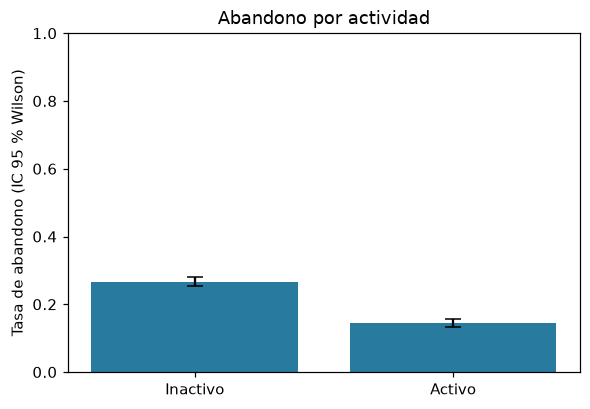
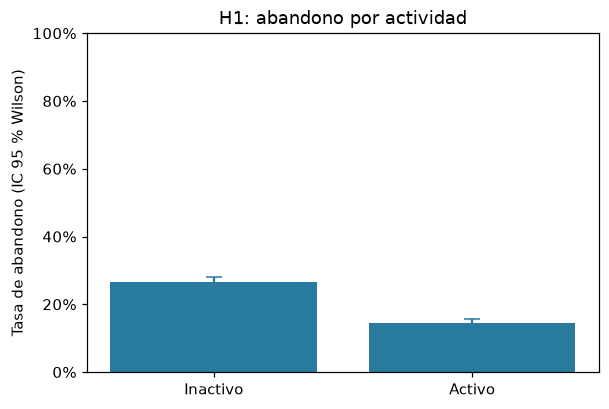
fix: figure readability (week 2 debt)

diff --git a/src/churn/plots.py b/src/churn/plots.py
@@ -11,12 +11,15 @@ matplotlib.use("Agg")
 
 import matplotlib.pyplot as plt
 import pandas as pd
+from matplotlib.ticker import FuncFormatter, PercentFormatter
 
 from churn.config import AGE_LABELS, PROJECT_ROOT, has_balance
 from churn.hypotheses import HYPOTHESES_FILE
 from churn.split import load_exploration
 
 FIGURES_DIR = PROJECT_ROOT / "reports" / "figures"
+COLOR = "#287a9e"
+THOUSANDS = FuncFormatter(lambda value, position: f"{value / 1000:g}k")
 
 
 def _save(fig, path: Path) -> Path:
@@ -35,8 +38,9 @@ def _rates_plot(rates, levels, labels, title, path: Path) -> Path:
         [rates[level]["rate"] - rates[level]["ic_low"] for level in levels],
         [rates[level]["ic_high"] - rates[level]["rate"] for level in levels],
     ]
-    ax.bar(labels, values, yerr=errors, capsize=5, color="#287a9e")
+    ax.bar(labels, values, yerr=errors, capsize=5, color=COLOR, error_kw={"ecolor": COLOR})
     ax.set(title=title, ylabel="Tasa de abandono (IC 95 % Wilson)", ylim=(0, 1))
+    ax.yaxis.set_major_formatter(PercentFormatter(xmax=1))
     return _save(fig, path)
 
 
@@ -48,53 +52,59 @@ def generate_figures(df: pd.DataFrame, results: list[dict], out_dir: Path) -> li
             indexed["H2"]["detalles"]["rates"],
             ("1", "2", "3-4"),
             ("1", "2", "3-4"),
-            "Abandono por número de productos (H2)",
+            "H2: abandono por número de productos",
             out_dir / "churn_products.png",
         ),
         _rates_plot(
             indexed["H4"]["detalles"]["rates"],
             AGE_LABELS,
             AGE_LABELS,
-            "Abandono por tramo de edad",
+            "H4: abandono por tramo de edad",
             out_dir / "churn_age.png",
         ),
     ]
     germany = indexed["H3"]["detalles"]
     estimates = [germany["or_crudo"], germany["or_ajustado"]]
-    fig, ax = plt.subplots(figsize=(6, 4))
+    fig, ax = plt.subplots(figsize=(6, 2.6))
     values = [estimate["estimate"] for estimate in estimates]
     errors = [
         [value - estimate["ic_low"] for value, estimate in zip(values, estimates, strict=True)],
         [estimate["ic_high"] - value for value, estimate in zip(values, estimates, strict=True)],
     ]
-    ax.errorbar(values, [0, 1], xerr=errors, fmt="o", capsize=5)
+    ax.errorbar(values, [0, 1], xerr=errors, fmt="o", capsize=5, color=COLOR)
     ax.axvline(1, color="gray", linestyle="--")
+    ax.axvline(1.5, color=COLOR, linestyle="--", label="umbral práctico")
+    ax.legend(loc="lower left")
     ax.set(
         yticks=[0, 1],
         yticklabels=["Crudo", "Ajustado por saldo"],
         xlabel="Odds ratio (IC 95 %)",
-        title="Alemania frente a Francia y España",
+        title="H3: Alemania frente a Francia y España",
+        ylim=(-0.35, 1.35),
     )
     paths.append(_save(fig, out_dir / "germany_or.png"))
 
     rates = indexed["H5"]["detalles"]["rates"]
-    fig, axes = plt.subplots(1, 2, figsize=(8, 4))
-    axes[0].bar(["Saldo cero", "Saldo positivo"], [rates["0"]["n"], rates["1"]["n"]])
+    fig, axes = plt.subplots(1, 2, figsize=(8, 4), constrained_layout=True)
+    fig.suptitle("H5: distribución del saldo")
+    axes[0].bar(["Saldo cero", "Saldo positivo"], [rates["0"]["n"], rates["1"]["n"]], color=COLOR)
     axes[0].set(title="Masa puntual en cero", ylabel="Clientes")
-    axes[1].hist(df.loc[has_balance(df["Balance"]) == 1, "Balance"], bins=40)
+    axes[1].hist(df.loc[has_balance(df["Balance"]) == 1, "Balance"], bins=40, color=COLOR)
     axes[1].set(title="Distribución del saldo positivo", xlabel="Balance", ylabel="Clientes")
+    axes[1].xaxis.set_major_formatter(THOUSANDS)
     paths.append(_save(fig, out_dir / "balance_distribution.png"))
 
     fig, ax = plt.subplots(figsize=(6, 4))
-    ax.hist(df["EstimatedSalary"], bins=40, color="#287a9e")
-    ax.set(title="Distribución de EstimatedSalary", xlabel="EstimatedSalary", ylabel="Clientes")
+    ax.hist(df["EstimatedSalary"], bins=40, color=COLOR)
+    ax.set(title="H6: distribución de EstimatedSalary", xlabel="EstimatedSalary", ylabel="Clientes")
+    ax.xaxis.set_major_formatter(THOUSANDS)
     paths.append(_save(fig, out_dir / "salary_distribution.png"))
     paths.append(
         _rates_plot(
             indexed["H1"]["detalles"]["rates"],
             ("0", "1"),
             ("Inactivo", "Activo"),
-            "Abandono por actividad",
+            "H1: abandono por actividad",
             out_dir / "churn_activity.png",
         )
     )

diff --git a/docs/registro-avance.md b/docs/registro-avance.md
@@ -9,7 +9,7 @@ Documento de seguimiento del proyecto **Abandono bancario → Decisiones de rete
 | Fin previsto | 29 de noviembre de 2026 |
 | Dedicación estimada | 8 horas por semana; 64 horas en total |
 | Última actualización | 6 de octubre de 2026 |
-| Fase actual | Semana 3: T0, compuerta documental y enmienda 002 v1.1 |
+| Fase actual | Semana 3: T1, corrección de presentación de figuras |
 
 Referencias: [README](../README.md), [especificación 001](../specs/001-overview-and-data-contract.md) y [especificación 002](../specs/002-modeling-and-evaluation.md).
 
@@ -477,13 +477,13 @@ Compuerta satisfecha; continuar con T1 según el plan versionado.
 |---|---|
 | Fecha de apertura | 6 de octubre de 2026 |
 | Fechas planificadas | 19–25 de octubre de 2026 |
-| Estado | En curso: T0 |
+| Estado | En curso: T1 |
 | Objetivo | Tres baselines fijas con CV exclusivamente de entrenamiento, transformaciones seguras y trazabilidad MLflow |
 
 | Tarea | Estado | Commit requerido |
 |---|---|---|
-| T0 | Verificada localmente; publicación y CI pendientes | `docs: amend spec 002 v1.1 and week 3 plan (SDD gate)` |
-| T1 | Pendiente | `fix: figure readability (week 2 debt)` |
+| T0 | Completada | `docs: amend spec 002 v1.1 and week 3 plan (SDD gate)` |
+| T1 | Figuras regeneradas y revisadas visualmente; comprobaciones completas pendientes | `fix: figure readability (week 2 debt)` |
 | T2 | Pendiente | `build: add mlflow` |
 | T3 | Pendiente | `feat: leakage-safe feature transformers` |
 | T4 | Pendiente | `feat: model pipelines for baselines` |
@@ -499,6 +499,15 @@ Compuerta satisfecha; continuar con T1 según el plan versionado.
 - Motivo: H2 desaconseja la codificación ordinal para LogReg informada; H4 requiere no linealidad, y usar `config.centered_age()` fuera de sklearn produciría fuga de las medias del pliegue. Q-10 fija la interpretación conjunta de saldo y geografía.
 - Solo documentación hasta el commit de T0. Sin selección de modelo, acceso a prueba ni uso de validación para entrenamiento.
 - Ejecutadas las comprobaciones de `AGENTS.md`, incluida sincronización adicional `uv sync --locked --all-groups`: 71 aprobados y cobertura del 98,48 %; Ruff, formato y hooks satisfactorios. CI previo confirmado en verde. Pendientes: commit de compuerta y CI de T0.
+- Compuerta publicada: `566a07b`; CI en verde: https://github.com/darwinjaco/bank-churn-ml/actions/runs/37508772980, antes de cambios en `src/`, tests o dependencias de semana 3.
+
+#### T1 — Presentación de figuras
+
+- `plots.py`: miles en ejes numéricos, `constrained_layout=True` para los dos paneles de saldo, color único de barras/puntos, IDs H1–H6 y tasas con `PercentFormatter`.
+- Alemania: umbral práctico OR=1,5 con etiqueta y figura más compacta; se conserva la referencia OR=1.
+- `uv run --group eda python -m churn.plots`: seis PNG regenerados, de 17.094 a 26.795 bytes; todos <200 KB.
+- Revisadas visualmente las seis imágenes: sin solapamientos de títulos, etiquetas o paneles. Datos, intervalos, histograma y resultados confirmatorios sin cambios (`git diff --exit-code` de hypotheses.json y split_manifest.json satisfactorio).
+- Comprobaciones completas de `AGENTS.md`, con instalación adicional de EDA, satisfactorias: 71 aprobados y cobertura del 98,51 %. CI previo T0 en verde; pendiente CI de T1 tras publicar.
 
 ## 6. Plantilla para nuevas secciones
 
